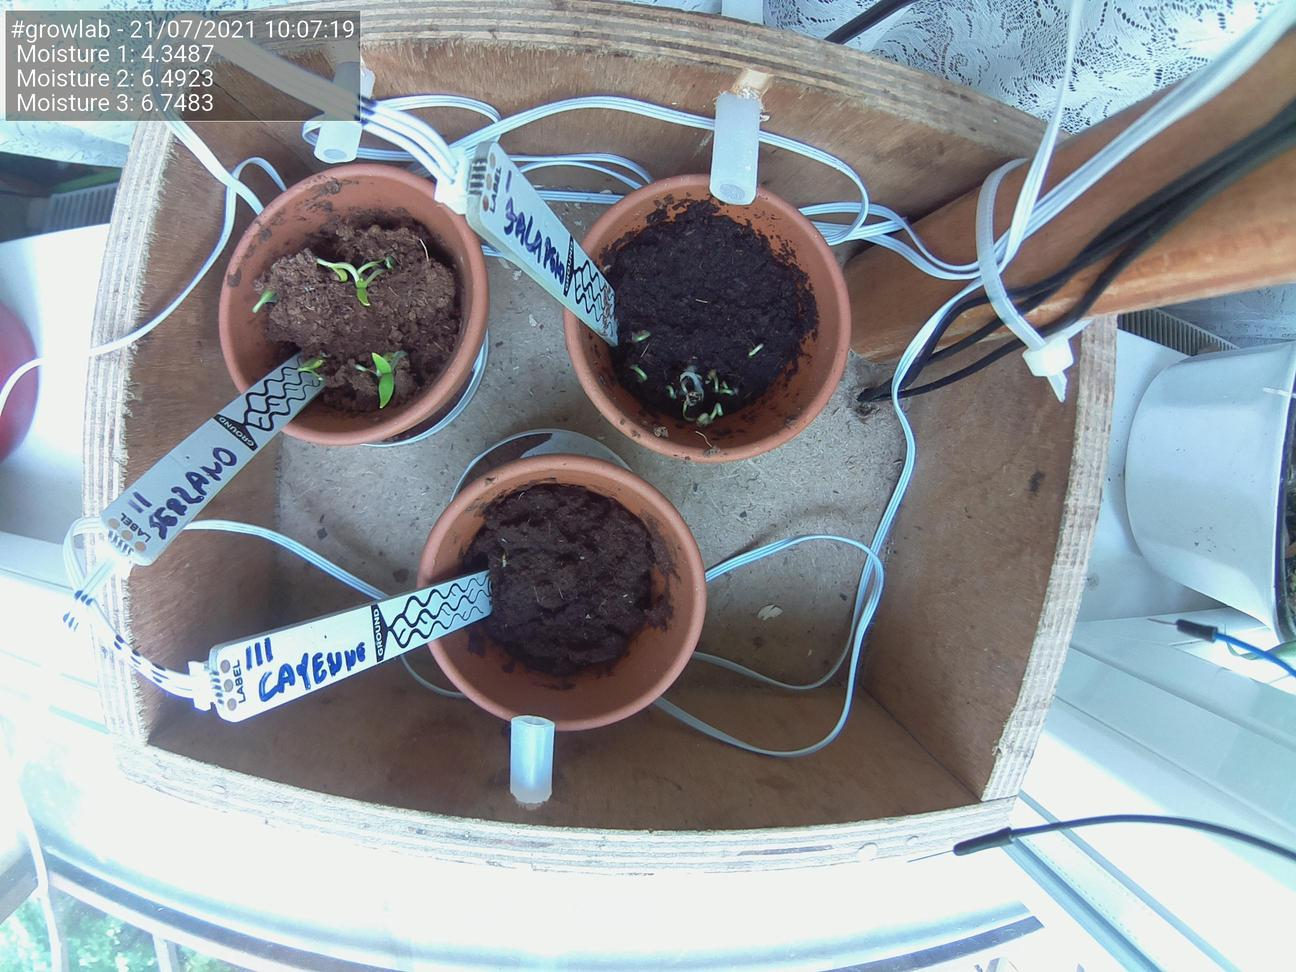
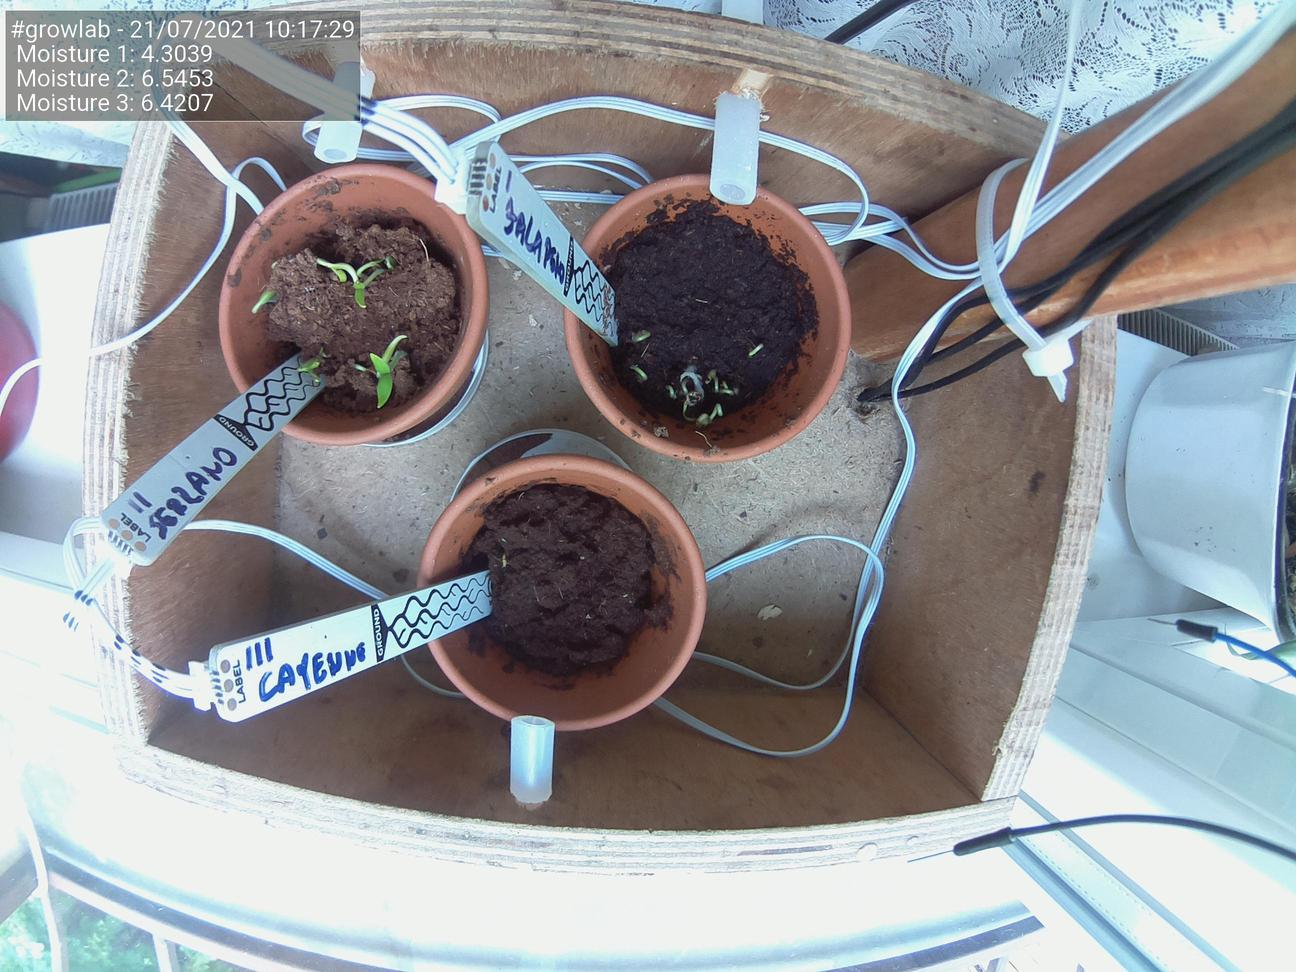
Update images at Wed 21 Jul 10:17:35 BST 2021

diff --git a/docs/index.html b/docs/index.html
@@ -51,25 +51,25 @@
                                 <td>Date</td>
                                 <td>21/07/2021</td>
                                 <td>Time</td>
-                                <td>10:07:19</td>
+                                <td>10:17:29</td>
                             </tr>
                             <tr>
                                 <td>Temperature</td>
                                 <td>N/A</td>
                                 <td>Moisture 1</td>
-                                <td>4.3487</td>
+                                <td>4.3039</td>
                             </tr>
                             <tr>
                                 <td>Humidity</td>
                                 <td>N/A</td>
                                 <td>Moisture 2</td>
-                                <td>6.4923</td>
+                                <td>6.5453</td>
                             </tr>
                             <tr>
                                 <td>Pressure</td>
                                 <td>N/A</td>
                                 <td>Moisture 3</td>
-                                <td>6.7483</td>
+                                <td>6.4207</td>
                             </tr>
                         </tbody>
                     </table>
@@ -77,7 +77,7 @@
 
                 <h5>Latest image</h5>
                 <div style="width: 85%;">
-                            <img class="figure-img img-fluid rounded" src="./preview.jpg?uid=1626858444.8706613">
+                            <img class="figure-img img-fluid rounded" src="./preview.jpg?uid=1626859055.1398242">
                 </div>
             </div>
         </div>
